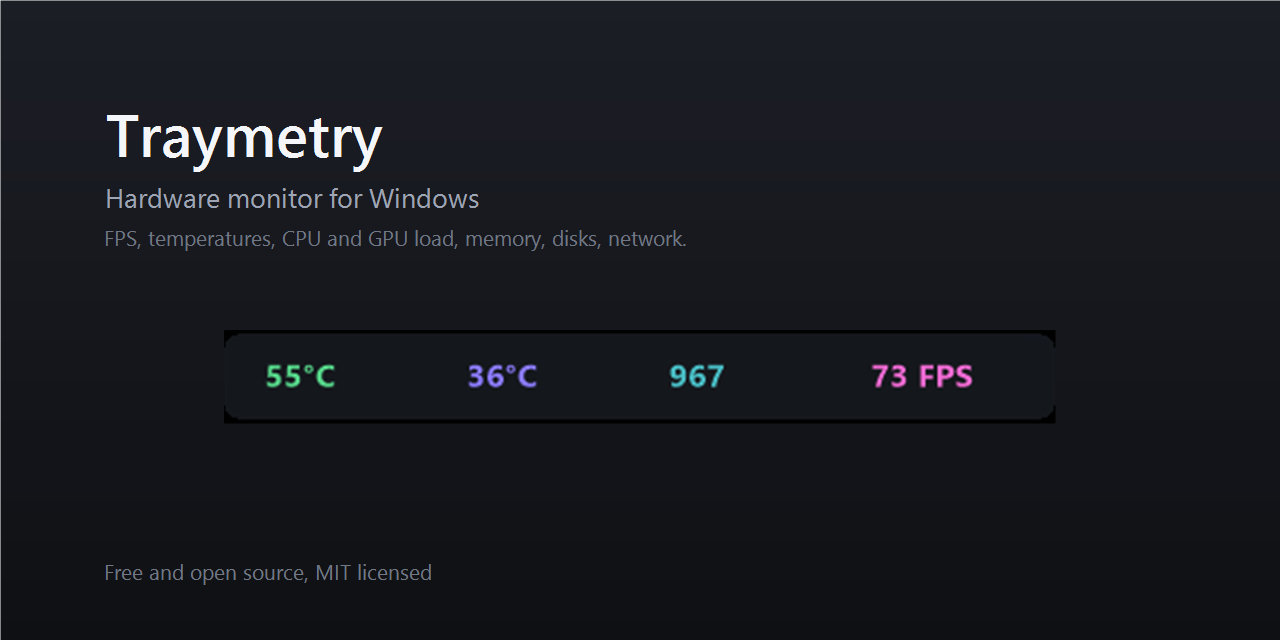
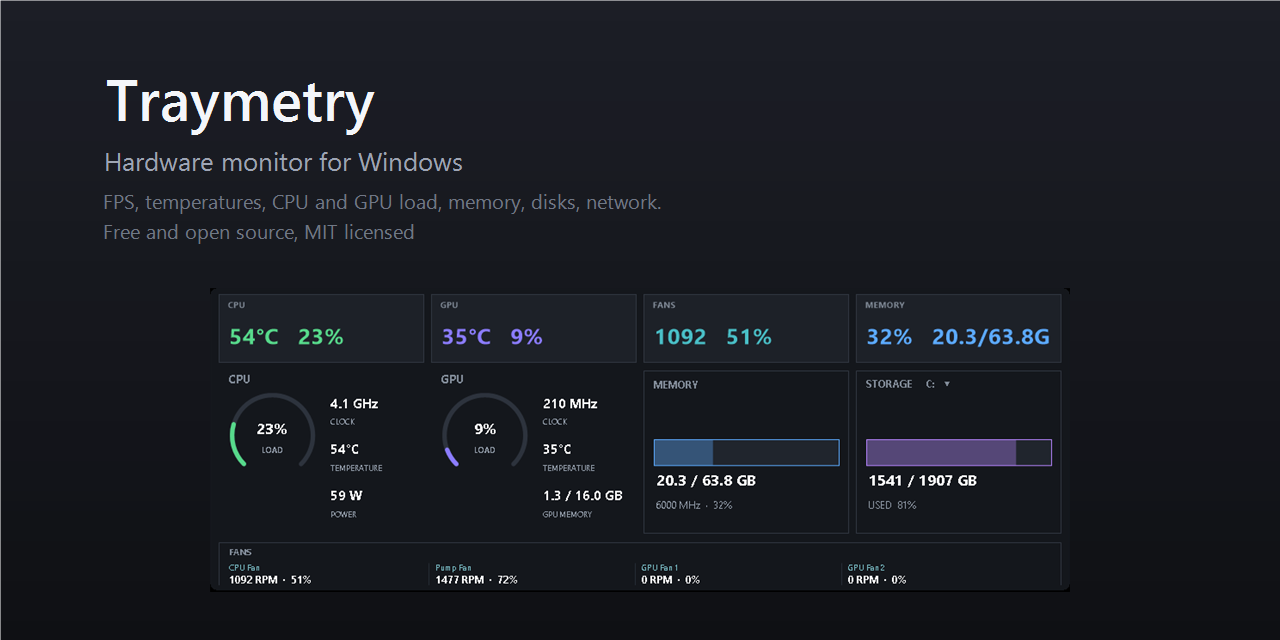
Photograph the panel, not only the bar
The README opened with the compact strip, which is what Traymetry looks like
when it is trying not to be looked at. What it can actually do is only visible
in the expanded panel and in the full statistics view with its history graphs,
so both are now in both READMEs, and the panel is the picture on the social
card instead of the strip.

The top row in these captures carries CPU, GPU, fans and memory rather than the
FPS card it usually ends with. FPS needs an application presenting frames
before it means anything; on an idle desktop the card honestly reads 1 FPS,
which in a screenshot reads as a broken program rather than an idle one. The
compact strip already shows the counter doing its job at 73 FPS, so nothing is
being hidden by leaving it out of the panel shot.

Captured like the others: PrintWindow on the widget itself, so nothing that
happened to be open behind it ends up in a public repository.

diff --git a/README.ru.md b/README.ru.md
@@ -22,6 +22,8 @@ Traymetry — компактный монитор ресурсов Windows, ко
 диски и сетевой трафик — также через стандартные API Windows. Traymetry не
 подключается к программам производителей и работает самостоятельно.
 
+![Развёрнутая панель](docs/images/panel.png)
+
 ## Управление
 
 ![Меню](docs/images/menu.png)
@@ -43,6 +45,10 @@ Traymetry — компактный монитор ресурсов Windows, ко
 Размер, положение, прозрачность, режим без фона, закрепление и состояние верхней
 панели сохраняются между перезапусками. Это относится и к автоматическому
 скрытию панели при уменьшении окна.
+
+Развёрнутый до конца, виджет хранит историю того, что читает:
+
+![Полная статистика с графиками истории](docs/images/full.png)
 
 ## Обновления
 

diff --git a/README.md b/README.md
@@ -24,6 +24,8 @@ CPU and GPU readings come from the open-source LibreHardwareMonitor; memory,
 disks and network traffic also come from standard Windows APIs. Traymetry does
 not attach itself to any vendor's software and needs none of it installed.
 
+![The expanded panel](docs/images/panel.png)
+
 ## The point of it
 
 A monitor you keep on screen has to earn the space it takes. Traymetry scales
@@ -47,6 +49,10 @@ be changed in a second and then forgotten.
 
 Size, position, opacity, the no-background mode, the pin and the state of the
 top bar all survive a restart.
+
+Expanded the whole way, it keeps a history of what it has been reading:
+
+![Full statistics, with history graphs](docs/images/full.png)
 
 ## Running it
 
